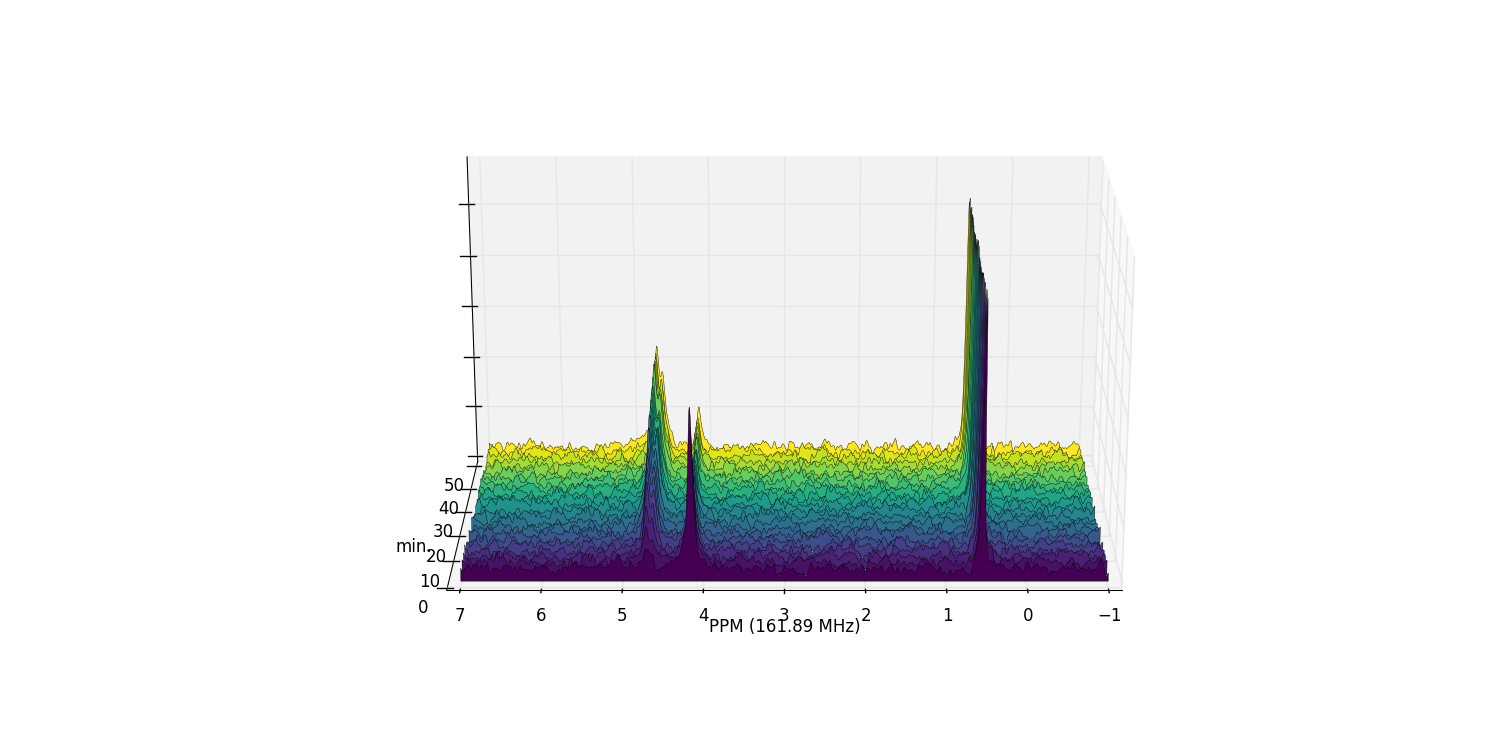
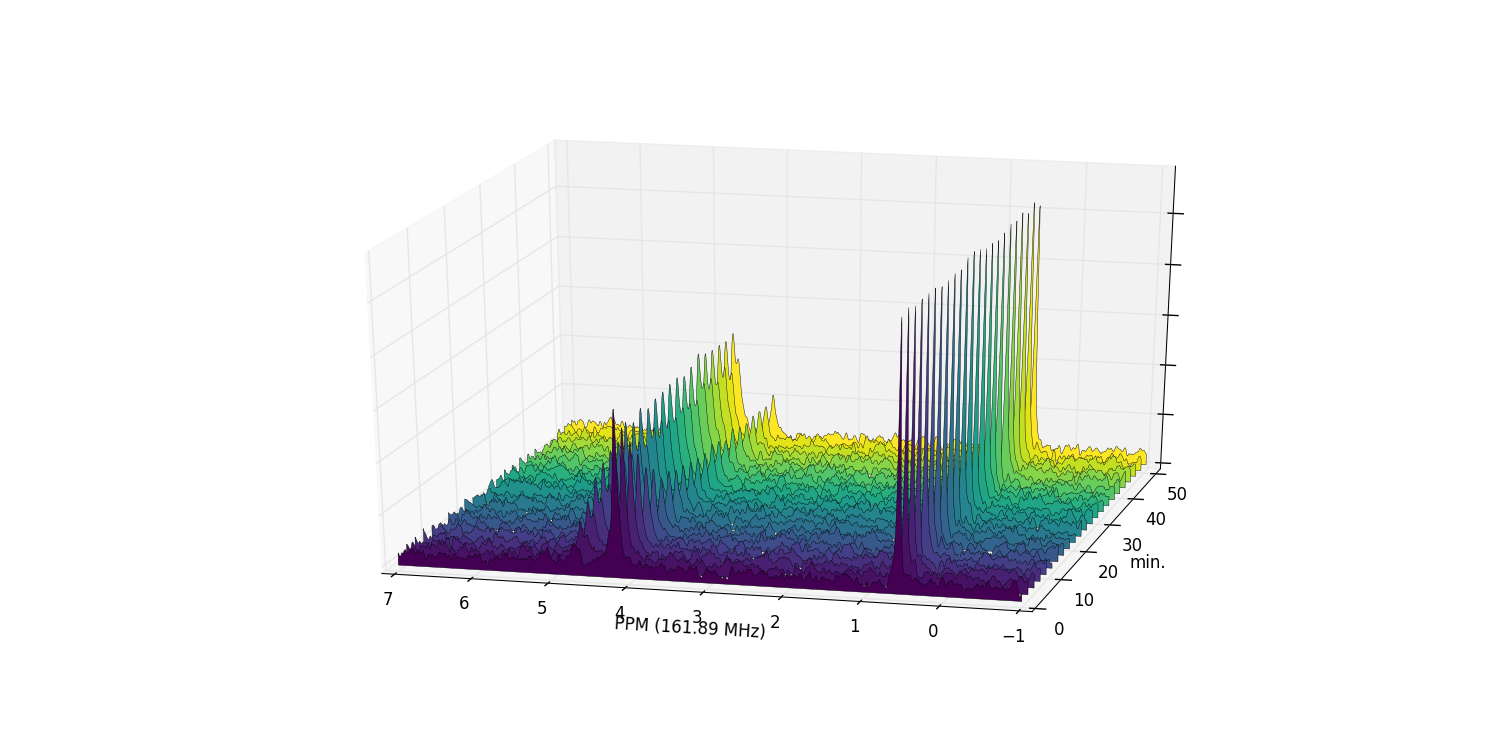
tweaked phase corrections docs

Changed region(s): [[0.2453, 0.276, 0.7973, 0.8587]]

diff --git a/docs/source/quickstart.rst b/docs/source/quickstart.rst
@@ -105,7 +105,7 @@ And plot an array of the phase-corrected data: ::
 
 Zooming in on the relevant peaks, and filling the spectra produces a more interesting plot: ::
 
-    fid_array.plot_array(upper_ppm=7, lower_ppm=-1, filled=True)
+    fid_array.plot_array(upper_ppm=7, lower_ppm=-1, filled=True, azim=-76, elev=23)
 
 .. image:: images/quickstart_7.png
 
